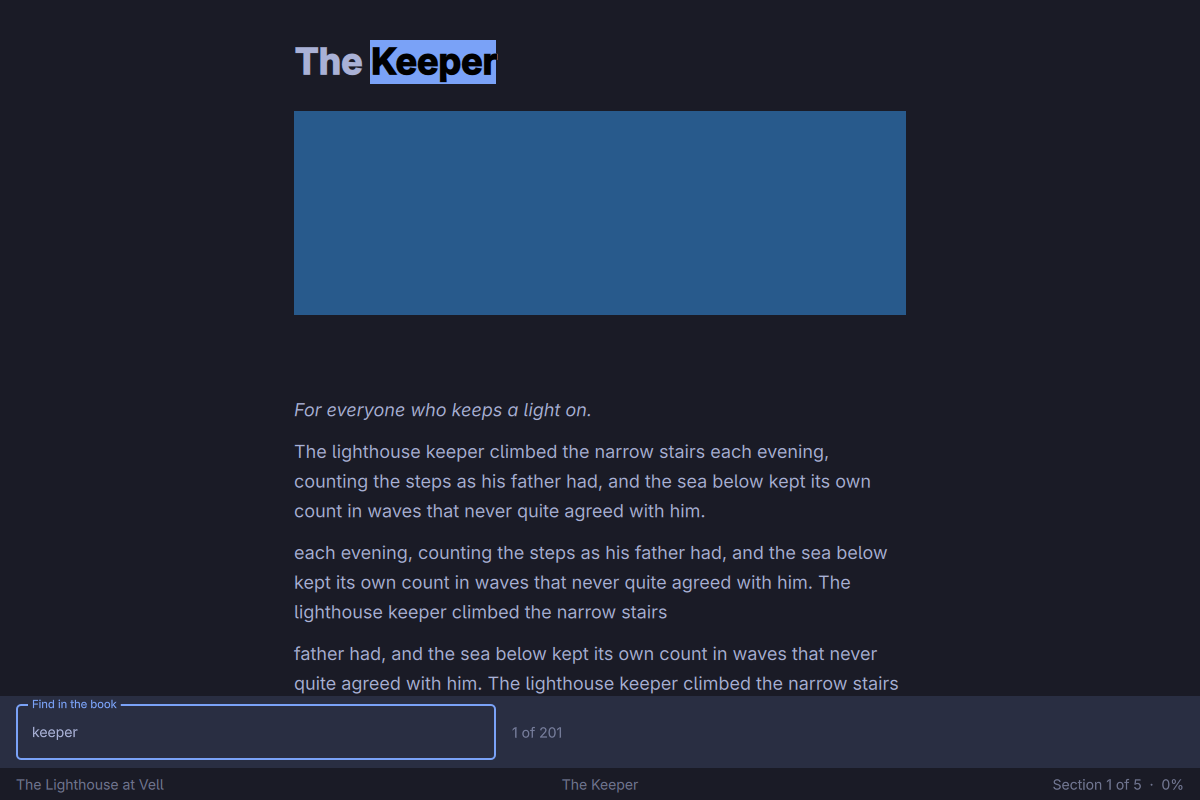
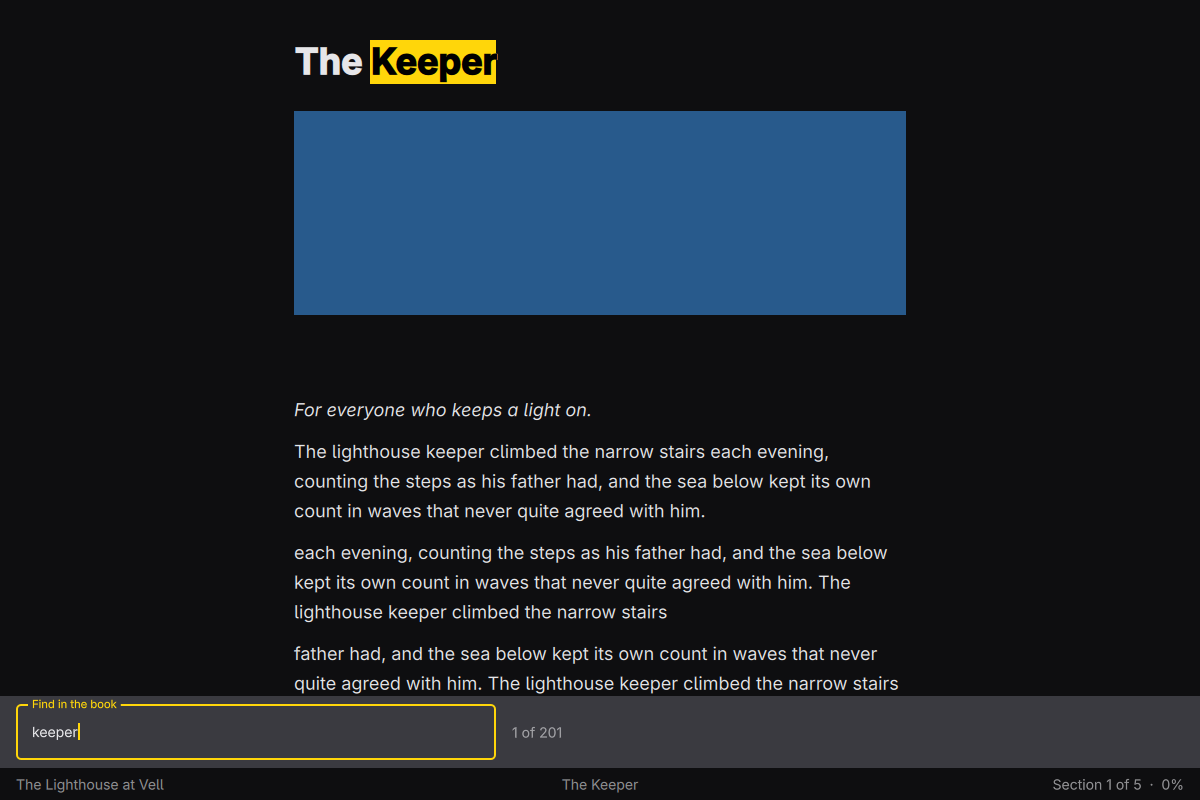
Follow the app skill where Omaread had drifted from it
The CI workflow is the shared one again: until the package is in
omarchy-pkgs, its dependencies aren't, and bin/test is the check. Numbers
re-render in a new language's digits, dialog buttons round like the
windows, and the README's screenshot uses Omarchy's default colors.

Claude-Session: https://claude.ai/code/session_01CmP2EXCY1t1tFW6scjJbkT

diff --git a/src/Main.qml b/src/Main.qml
@@ -69,7 +69,9 @@ ApplicationWindow {
     readonly property string tint: backend.tintPages
         ? "/" + String(theme.background).slice(1, 7) + "/" + String(theme.foreground).slice(1, 7) : ""
 
-    function number(n) { return Number(n).toLocaleString(Qt.locale(), 'f', 0) }
+    // Reading the language makes every binding that formats a number
+    // re-render in the new language's digits on a switch.
+    function number(n) { return translator.language, Number(n).toLocaleString(Qt.locale(), 'f', 0) }
     function percent(p) { return qsTr("%1%").arg(number(Math.round(p * 100))) }
     function aspect(page) { return backend.aspects[page] || 0.7071 }
 
@@ -952,8 +954,8 @@ ApplicationWindow {
             LayoutMirroring.enabled: win.rightToLeft
             LayoutMirroring.childrenInherit: true
             background: null
-            Button { text: qsTr("Cancel"); flat: true; DialogButtonBox.buttonRole: DialogButtonBox.RejectRole }
-            Button { text: qsTr("Go"); flat: true; DialogButtonBox.buttonRole: DialogButtonBox.AcceptRole }
+            Button { text: qsTr("Cancel"); flat: true; Material.roundedScale: theme.radius; DialogButtonBox.buttonRole: DialogButtonBox.RejectRole }
+            Button { text: qsTr("Go"); flat: true; Material.roundedScale: theme.radius; DialogButtonBox.buttonRole: DialogButtonBox.AcceptRole }
         }
     }
 
@@ -1002,8 +1004,8 @@ ApplicationWindow {
             LayoutMirroring.enabled: win.rightToLeft
             LayoutMirroring.childrenInherit: true
             background: null
-            Button { text: qsTr("Cancel"); flat: true; DialogButtonBox.buttonRole: DialogButtonBox.RejectRole }
-            Button { text: qsTr("Open"); flat: true; DialogButtonBox.buttonRole: DialogButtonBox.AcceptRole }
+            Button { text: qsTr("Cancel"); flat: true; Material.roundedScale: theme.radius; DialogButtonBox.buttonRole: DialogButtonBox.RejectRole }
+            Button { text: qsTr("Open"); flat: true; Material.roundedScale: theme.radius; DialogButtonBox.buttonRole: DialogButtonBox.AcceptRole }
         }
     }
 
